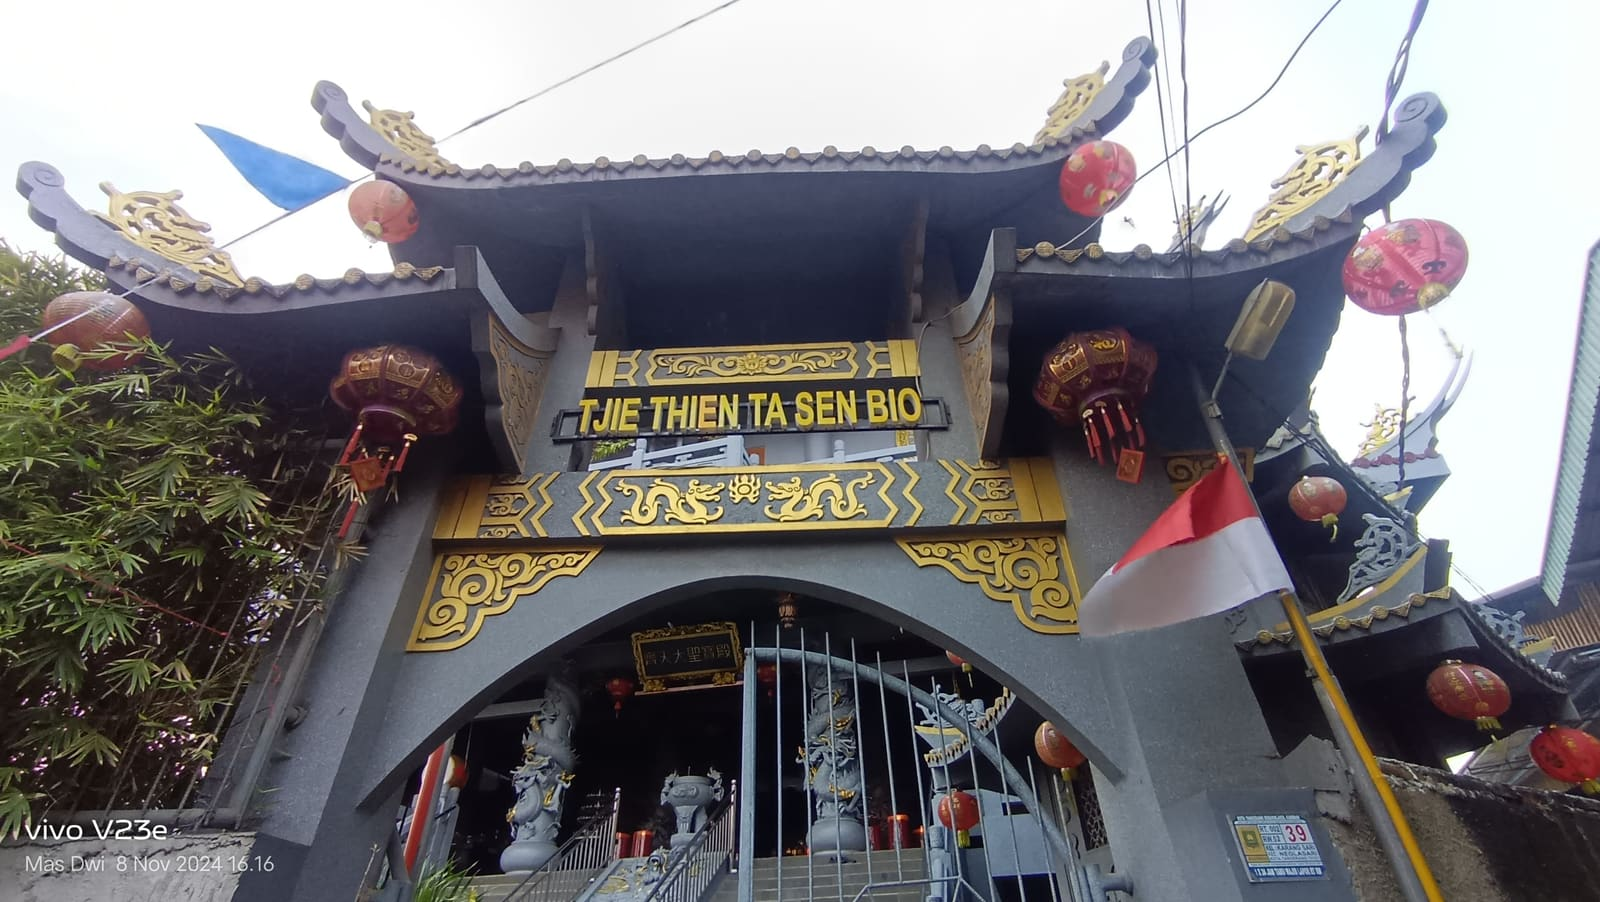
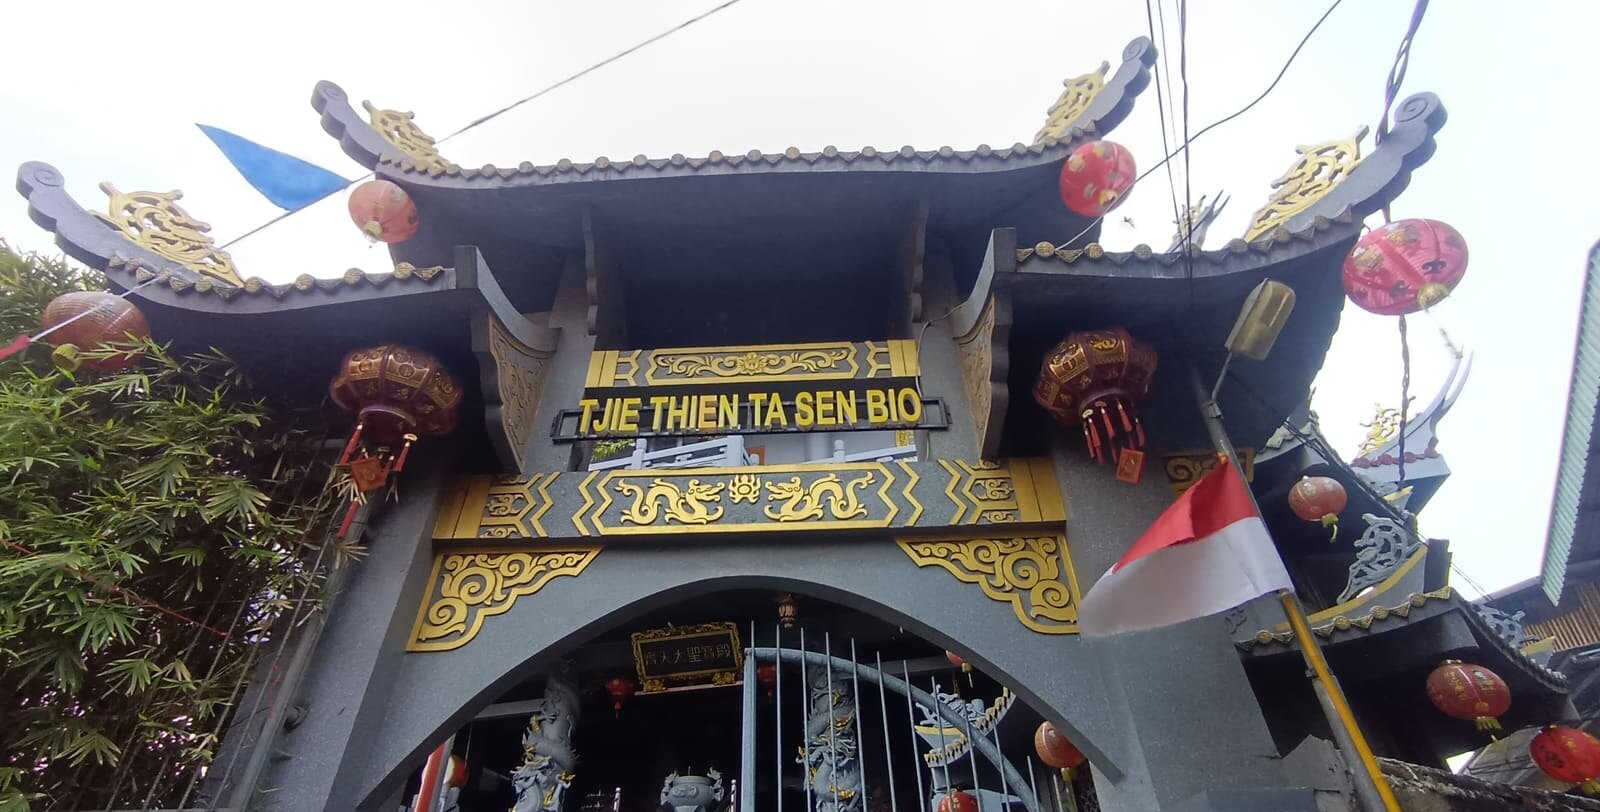
feat(sponsors): add PT Prima Mining Nusantara; clean the cover photo
The PMN logo came in a .docx letterhead — a docx is a zip, so the
artwork came straight out of word/media at its native size rather than
being screenshotted off the page. Placed at rank 1 on the strength of
"this is the big sponsor"; there is no PMN row in the 28 Aug ledger, so
the tier still wants confirming.

Also corrects the banner cross-check from two days ago. Fourteen of the
eighteen names I reported as missing were already on the wall,
composited into their group's tile exactly as the printed invitation
does it — the Astic tile alone carries all seven subsidiaries. I had
read the banner but not the tiles. Four are genuinely absent.

And the cover photo finally loses the "vivo V23e / Mas Dwi" camera
stamp. Reconstructing that corner left visible ghosting, so the bottom
88px is cropped instead: .cover-bg draws it at background-position
center 30%, so the lost strip was never on screen.

diff --git a/src/config/invitation.ts b/src/config/invitation.ts
@@ -339,6 +339,7 @@ export const invitation = {
   // ─── sponsor roster (logos) ───────────────────────────────────
   sponsorLogos: [
     { slug: "astic-group",                    name: "ASTIC Group",                                            rank: 1 },
+    { slug: "prima-mining-nusantara",         name: "PT Prima Mining Nusantara",                              rank: 1 },
     { slug: "borobudur-lotus-artfest",        name: "Borobudur Lotus Artfest",                                rank: 1 },
     { slug: "bangun-jaya-group",              name: "Bangun Jaya Group",                                      rank: 1 },
     { slug: "dextone-avian",                  name: "Dextone · Abrasive · Provioz · Veloz",                   rank: 1 },
